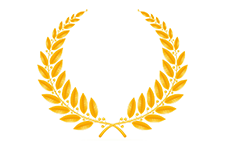
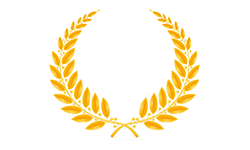
updates

Changed region(s): [[0.1556, 0.0533, 0.84, 0.9333]]

diff --git a/index.html b/index.html
@@ -131,7 +131,6 @@
                 <h1 class="post-title">
                     <span class="first-name">Cris</span> <span class="last-name">Benge</span>
                 </h1>
-
                 <p class="desc"></p>
             </header>
 
@@ -143,17 +142,17 @@
 
                 <div class="clearfix main-text-content">
 
-                    <p>I am a Principal Data Scientist Manager on the <a href="https://azure.microsoft.com/" target="_blank">Azure</a> CHIE team - a division within the Cloud + AI organization - at Microsoft.</p>
+                    <p>I am a Principal Data Scientist Manager on the <a href="https://azure.microsoft.com/" target="_blank" style="color: #2C6BAC; font-weight: bold">Azure</a> CHIE team - a division within the Cloud + AI organization - at Microsoft.</p>
 
-                    <p>I am a graduate of the <a href="https://datascience.berkeley.edu/" target="_blank">University of California, Berkeley</a>, where I earned a Master of Information in Data Science. I am also a graduate student at the School of Engineering
-                        and Applied Sciences at <a href="https://www.engineering.columbia.edu/departments/computer-science" target="_blank">Columbia University in the City of New York</a>, where I'm studying toward a Master of Science in Computer Science
-                        with a specialization in Machine Learning (Exp. 2023).</p>
+                    <p>I am a graduate of the <a href="https://datascience.berkeley.edu/" target="_blank" style="color: #2C6BAC; font-weight: bold">University of California, Berkeley</a>, where I earned a Master of Information and Data Science. I am also
+                        a student at the School of Engineering and Applied Sciences at <a href="https://www.engineering.columbia.edu/departments/computer-science" target="_blank" style="color: #2C6BAC; font-weight: bold">Columbia University in the City of New York</a>,
+                        where I'm studying toward a Master of Science in Computer Science with a specialization in Machine Learning (exp 2023).</p>
 
-                    <p>I have over 20 years of experience providing hands-on consultation and leadership in Healthcare, Defense, and Federal Civilian sectors. I am passionate about data science, machine learning, cloud architecture, and database solution
-                        building - with a proven track-record leading and delivering successful engagements for some of the largest and most complex data problem areas.</p>
+                    <p>I have over 20 years of experience providing hands-on consultation and leadership in the Healthcare, Defense, and Federal Civilian sectors. I am passionate about data science, machine learning, cloud architecture, and database solution
+                        building - with a proven track record leading and delivering successful engagements for some of the largest and most complex data problem areas.</p>
 
-                    <p>I am based in central Indiana, possess an active Top Secret security clearance, and have a borderline-obsession with <a href="https://www.kaggle.com/" target="_blank">competitive machine learning</a>, <a href="https://en.wikipedia.org/wiki/Natural_language_processing"
-                            target="_blank">natural language processing</a>, <a href="https://en.wikipedia.org/wiki/Computer_vision" target="_blank">computer vision</a>, and data visualization.</p>
+                    <p>I am based in central Indiana, possess an active Top Secret security clearance, and have a borderline-obsession with <a href="https://www.kaggle.com/" target="_blank" style="color: #2C6BAC">competitive machine learning</a>, <a href="https://en.wikipedia.org/wiki/Natural_language_processing"
+                            target="_blank" style="color: #2C6BAC">natural language processing</a>, <a href="https://en.wikipedia.org/wiki/Computer_vision" target="_blank" style="color: #2C6BAC">computer vision</a>, and data visualization.</p>
 
                     <p>Contact: <code class="language-plaintext highlighter-rouge">firstname + lastname + "@hotmail.com"</code></p>
 
@@ -344,7 +343,7 @@
                         <li>
                             <div class="row">
                                 <div class="col-sm-2 abbr">
-                                    <a href="/honors_awards/"><img src="/assets/img/awards.png" alt="project thumbnail" class="card-img-top" height=70 /></a>
+                                    <a href="/honors_awards/"><img src="/assets/img/awards.jpg" alt="project thumbnail" class="card-img-top" height=70 /></a>
                                 </div>
 
                                 <div id="tenney2020lit" class="col-sm-8">
@@ -381,7 +380,7 @@
                                 </div>
                             </div>
                         </li>
-
+                        <br>
                         <!-- SKILLS & CERTIFICATIONS -->
                         <li>
                             <div class="row">
@@ -395,17 +394,17 @@
                                     </a>
 
                                     <div class="author">
-                                        Key competencies and an unreasonbly long list of professional certifications I've acquired over the years.
+                                        Key competencies and an unreasonbly long list of professional certifications.
                                     </div>
                                 </div>
                             </div>
                         </li>
-
+                        <br>
                         <!-- EDUCATION -->
                         <li>
                             <div class="row">
                                 <div class="col-sm-2 abbr">
-                                    <a href="/education/index.html"><img src="/assets/img/education.png" alt="project thumbnail" class="card-img-top" height=70 /></a>
+                                    <a href="/education/index.html"><img src="/assets/img/education2.png" alt="project thumbnail" class="card-img-top" height=70 /></a>
                                 </div>
 
                                 <div id="tenney2020lit" class="col-sm-8">
@@ -414,7 +413,7 @@
                                     </a>
 
                                     <div class="author">
-                                        Academic pursuits.<br><br>
+                                        Academic accomplishments & pursuits.<br><br>
                                     </div>
                                 </div>
                             </div>
@@ -425,7 +424,7 @@
                             <div class="row">
                                 <div class="col-sm-2 abbr">
                                     <!-- <abbr class="badge"><a href="https://www.aclweb.org/anthology/2020.emnlp-demos.15" target="_blank">EMNLP</a></abbr> -->
-                                    <abbr class="badge">Research</abbr>
+                                    <abbr class="badge" style="text-align: center; display: block">Research</abbr>
                                 </div>
 
                                 <div id="tenney2020lit" class="col-sm-8">

diff --git a/honors_awards/index.html b/honors_awards/index.html
@@ -123,7 +123,6 @@
 
             <header class="post-header">
                 <h1 class="post-title">honors</h1>
-                <p class="post-description">Machine learning competition placements.</p>
             </header>
 
             <article class="news">
@@ -151,7 +150,27 @@
 
                 <br>
                 <h1 id="post-title">microsoft awards</h1>
-                <br>
+
+                <table>
+                    <tbody>
+                        <tr style="padding:10px">
+                            <td style="padding:10px">2020</td>
+                            <td style="padding:10px"><b>Circle of Excellence, Platinum Club</b> : Microsoft's highest annual employee award for performance</td>
+                        </tr>
+                        <tr style="padding:10px">
+                            <td style="padding:10px">2020</td>
+                            <td style="padding:10px"><b>Champion Award (Q3)</b> : Microft's highest quarterly employee award for performance</td>
+                        </tr>
+                        <tr style="padding:10px">
+                            <td style="padding:10px">2020</td>
+                            <td style="padding:10px"><b>Hero Award</b> : Microsoft's highest monthly employee award for performance</td>
+                        </tr>
+                        <tr style="padding:10px">
+                            <td style="padding:10px">2019</td>
+                            <td style="padding:10px"><b>#BetterTogether Award</b> : Recognition for leading a diverse, high-performing v-team</td>
+                        </tr>
+                    </tbody>
+                </table>
 
                 <table>
                     <tbody>

diff --git a/education/index.html b/education/index.html
@@ -134,6 +134,25 @@
 
                     <ol class="bibliography">
 
+                        <!-- Columbia -->
+                        <li>
+                            <div class="row">
+                                <div class="col-sm-2 abbr">
+                                    <a href="https://www.columbia.edu/" target="_blank"><img src="../assets/img/columbia_logo.png" alt="project thumbnail" class="card-img-top" height=70 /></a>
+                                </div>
+
+                                <div id="tenney2020lit" class="col-sm-8">
+                                    <a href="https://www.columbia.edu/" target="_blank">
+                                        <div class="title">Columbia University in the City of New York</div>
+                                    </a>
+
+                                    <div class="author">
+                                        Master of Science in Computer Science, Machine Learning Specialization (exp. 2023)
+                                    </div>
+                                </div>
+                            </div>
+                        </li>
+                        <br>
                         <!-- UC Berkeley -->
                         <li>
                             <div class="row">
@@ -147,7 +166,7 @@
                                     </a>
 
                                     <div class="author">
-                                        Masters of Science, Information and Data Science (exp. Spring 2021)
+                                        Master of Information and Data Science (2021)
                                     </div>
                                 </div>
                             </div>
